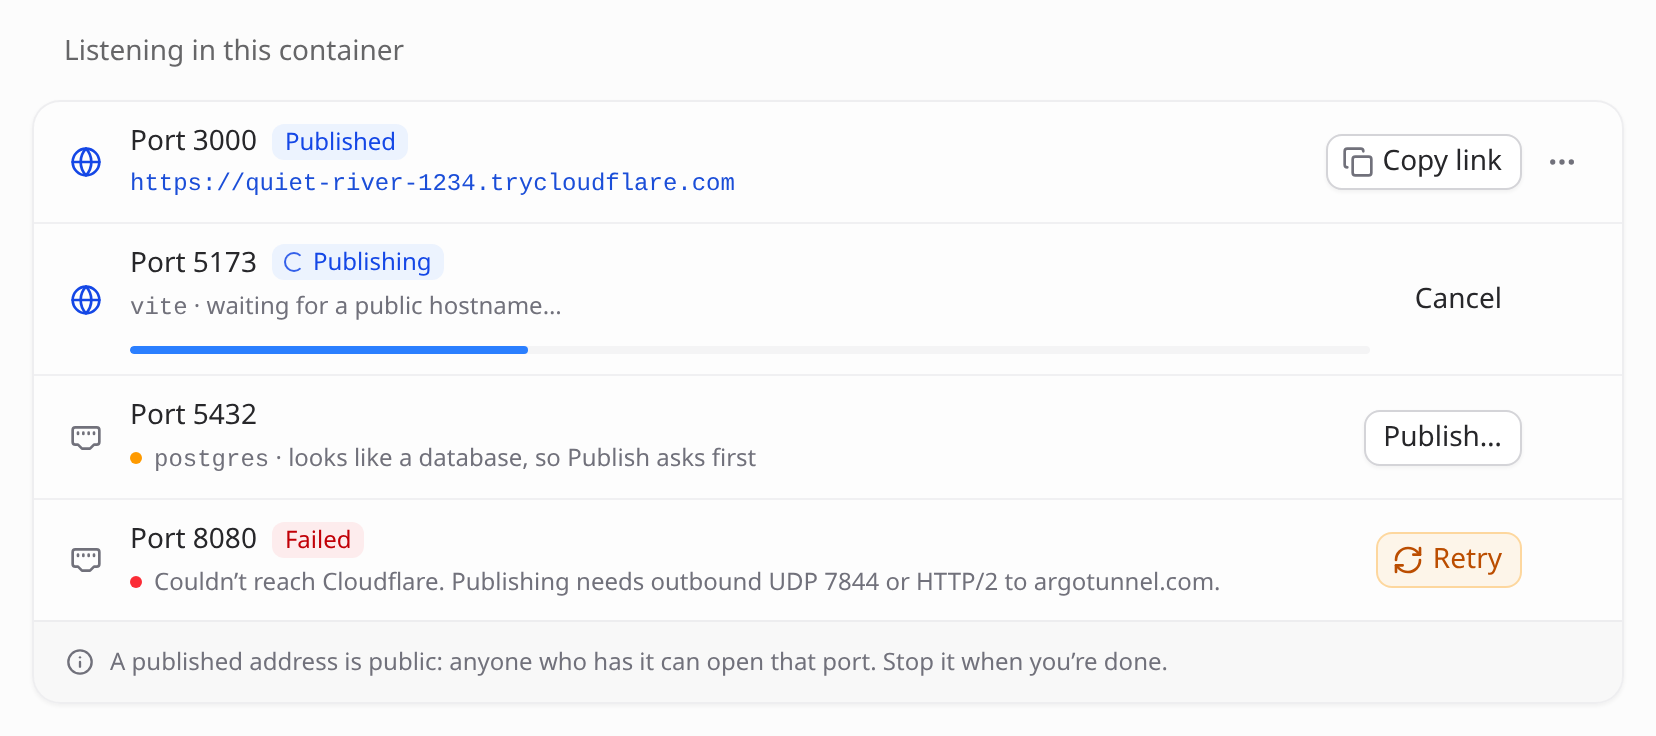
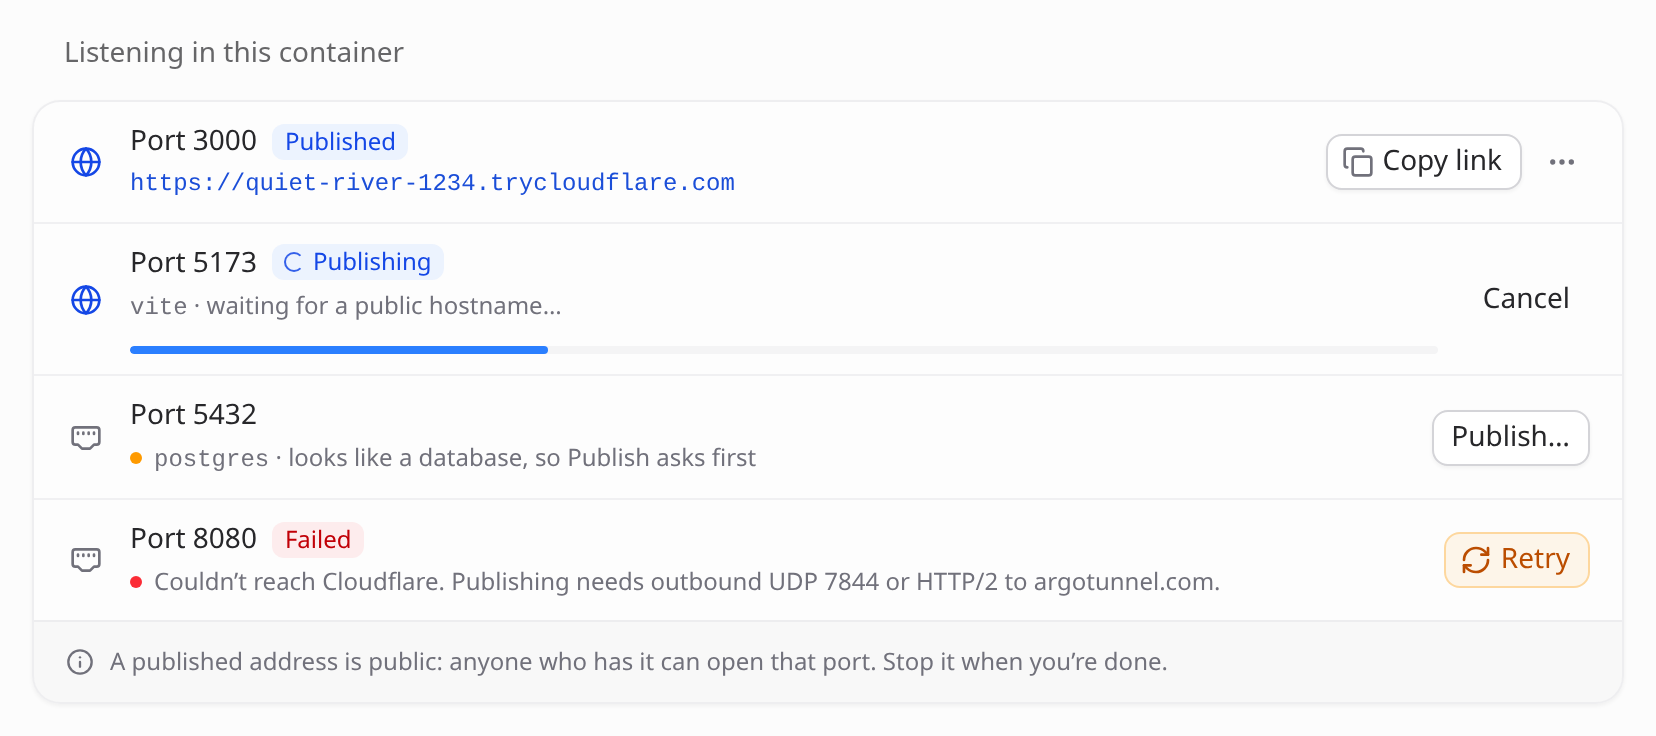
fix(setup): remove empty menu space from row actions

diff --git a/docker/setup/app.js b/docker/setup/app.js
@@ -564,11 +564,10 @@
     const variant = opts.plain ? null : a.variant === 'primary' && opts.primary === false ? null : a.variant;
     return html`<button class="${btnClass(variant)}" type="button" data-cmd="${a.cmd}" data-target="${row.target}" data-id="${row.id}" data-key="act-${row.key}">${a.icon ? icon(a.icon) : ''}${a.label}</button>`;
   };
-  // A row without a menu keeps its place, so every row's one action lines up.
-  const menuSlot = () => html`<span class="tc-row-menu-slot" aria-hidden="true"></span>`;
+  // Only real controls occupy the action group; its last control uses the row inset.
   const menuButton = (row) => row.menu.length
     ? html`<button class="tc-btn tc-btn--ghost tc-btn--icon tc-btn--sm" type="button" aria-label="More for ${row.name}" aria-haspopup="menu" aria-expanded="${String(Kit.menuOpenFor('menu-' + row.key))}" data-cmd="row.menu" data-target="${row.target}" data-id="${row.id}" data-key="menu-${row.key}">${icon('ellipsis')}</button>`
-    : menuSlot();
+    : '';
 
   /** An agent or toolchain row: tile, name and version, one status line, one verb, a menu. */
   const resourceRow = (row, opts = {}) => {
@@ -584,7 +583,7 @@
         ${noticeError ? html`<span class="tc-status" role="alert">${dot('danger')}<span class="tc-status-text">${noticeError.text}${detail('notice')}</span></span>` : noticeLine(row.notice)}
         ${row.state === 'running' ? opLine(row) : ''}
       </div>
-      <div class="${cx('tc-row-actions', opts.wrap && 'tc-row-actions--wrap')}">${actionButton(row, opts)}${opts.menu === false ? menuSlot() : menuButton(row)}</div>
+      <div class="${cx('tc-row-actions', opts.wrap && 'tc-row-actions--wrap')}">${actionButton(row, opts)}${opts.menu === false ? '' : menuButton(row)}</div>
     </div>`;
   };
 
@@ -744,7 +743,7 @@
     <div class="tc-row tc-row--compact" data-key="needs-${item.key}">
       <span class="tc-tile tc-tile--icon" data-tone="${item.tone}" aria-hidden="true">${icon(item.icon)}</span>
       <div class="tc-row-main"><span class="tc-row-name">${item.name}</span><span class="tc-status"><span class="tc-status-text">${item.text}</span></span></div>
-      <div class="tc-row-actions tc-row-actions--wrap">${itemAction(item.action)}${menuSlot()}</div>
+      <div class="tc-row-actions tc-row-actions--wrap">${itemAction(item.action)}</div>
     </div>`;
   // On a phone each item's one action goes under its words, so they read whole.
   const attentionRow = (item) => (item.icon ? itemRow(item) : resourceRow(item, { plain: true, menu: false, wrap: true }));
@@ -1020,7 +1019,7 @@
           ${url ? html`<span class="tc-status tc-url-line"><span class="tc-mono tc-truncate">${url}</span>${copyButton(url, 'Copy public URL', { iconOnly: true })}${source && source !== 'set here' ? html`<span class="tc-url-source">${source === 'T3_PUBLIC_URL' ? 'from T3_PUBLIC_URL' : source}</span>` : ''}</span>`
             : html`<span class="tc-status">${dot('warn')}<span class="tc-status-text">Not set. Pairing links point at it, so they need one${here && !here.local ? html`: this page is open at ${M.hostOf(here.url)}, and T3 Code answers there too` : ''}.</span></span>`}
         </div>
-        <div class="tc-row-actions tc-row-actions--wrap">${action}${!url && here && !here.local ? html`<button class="tc-btn tc-btn--ghost tc-btn--icon tc-btn--sm" type="button" aria-label="More for the public URL" aria-haspopup="menu" aria-expanded="${String(Kit.menuOpenFor('menu-url'))}" data-cmd="url.menu" data-key="menu-url">${icon('ellipsis')}</button>` : menuSlot()}</div>
+        <div class="tc-row-actions tc-row-actions--wrap">${action}${!url && here && !here.local ? html`<button class="tc-btn tc-btn--ghost tc-btn--icon tc-btn--sm" type="button" aria-label="More for the public URL" aria-haspopup="menu" aria-expanded="${String(Kit.menuOpenFor('menu-url'))}" data-cmd="url.menu" data-key="menu-url">${icon('ellipsis')}</button>` : ''}</div>
       </div>
       ${connectRow(s)}
     </div></div>`;
@@ -1069,7 +1068,7 @@
     return html`<div class="tc-row tc-row--compact" data-key="connect">
       <span class="tc-tile tc-tile--icon" aria-hidden="true">${icon('globe')}</span>
       <div class="tc-row-main"><div class="tc-row-title"><span class="tc-row-name">T3 Connect</span>${badge(view.badge)}</div><span class="tc-status tc-status--prose">${view.text}</span></div>
-      <div class="tc-row-actions tc-row-actions--wrap">${view.action ? html`<button class="tc-btn tc-btn--sm" type="button" data-cmd="${view.action.cmd}">${view.action.icon ? icon(view.action.icon) : ''}${view.action.label}</button>` : ''}${menu.length ? html`<button class="tc-btn tc-btn--ghost tc-btn--icon tc-btn--sm" type="button" aria-label="More for T3 Connect" aria-haspopup="menu" aria-expanded="${String(Kit.menuOpenFor('menu-connect'))}" data-cmd="connect.menu" data-key="menu-connect">${icon('ellipsis')}</button>` : menuSlot()}</div>
+      <div class="tc-row-actions tc-row-actions--wrap">${view.action ? html`<button class="tc-btn tc-btn--sm" type="button" data-cmd="${view.action.cmd}">${view.action.icon ? icon(view.action.icon) : ''}${view.action.label}</button>` : ''}${menu.length ? html`<button class="tc-btn tc-btn--ghost tc-btn--icon tc-btn--sm" type="button" aria-label="More for T3 Connect" aria-haspopup="menu" aria-expanded="${String(Kit.menuOpenFor('menu-connect'))}" data-cmd="connect.menu" data-key="menu-connect">${icon('ellipsis')}</button>` : ''}</div>
     </div>`;
   };
 
@@ -1243,16 +1242,16 @@
     } else if (p.state === 'starting') {
       title = html`${title}<span class="tc-badge tc-badge--info"><span class="tc-spinner" aria-hidden="true"></span>Publishing</span>`;
       status = html`<span class="tc-status"><span class="tc-status-text">${joinParts([proc, 'waiting for a public hostname…'])}</span></span>${progressBar(null)}`;
-      actions = html`<button class="tc-btn tc-btn--ghost tc-btn--sm" type="button" data-cmd="port.stop" data-id="${p.port}" data-key="stop-${p.port}">Cancel</button>${menuSlot()}`;
+      actions = html`<button class="tc-btn tc-btn--ghost tc-btn--sm" type="button" data-cmd="port.stop" data-id="${p.port}" data-key="stop-${p.port}">Cancel</button>`;
     } else if (p.state === 'failed') {
       title = html`${title}<span class="tc-badge tc-badge--danger">Failed</span>`;
       status = statusLine({ dot: 'danger', text: p.error || 'The tunnel failed' });
-      actions = html`<button class="tc-btn tc-btn--warning tc-btn--sm" type="button" data-cmd="port.publish" data-id="${p.port}" data-key="pub-${p.port}">${icon('refresh-cw')}Retry</button>${menuSlot()}`;
+      actions = html`<button class="tc-btn tc-btn--warning tc-btn--sm" type="button" data-cmd="port.publish" data-id="${p.port}" data-key="pub-${p.port}">${icon('refresh-cw')}Retry</button>`;
     } else {
       status = p.db
         ? html`<span class="tc-status">${dot('warn')}<span class="tc-status-text">${joinParts([proc, 'looks like a database, so Publish asks first'])}</span></span>`
         : html`<span class="tc-status"><span class="tc-status-text">${proc || where ? joinParts([proc, where]) : p.listening ? 'Listening in the container' : 'Not listening right now'}</span></span>`;
-      actions = html`<button class="tc-btn tc-btn--sm" type="button" data-cmd="port.publish" data-id="${p.port}" data-key="pub-${p.port}">${p.db ? 'Publish…' : 'Publish'}</button>${menuSlot()}`;
+      actions = html`<button class="tc-btn tc-btn--sm" type="button" data-cmd="port.publish" data-id="${p.port}" data-key="pub-${p.port}">${p.db ? 'Publish…' : 'Publish'}</button>`;
     }
     return html`
       <div class="${cx('tc-row tc-row--compact', p.expanded && 'tc-row--expanded')}" data-key="port-${p.port}">
@@ -1341,7 +1340,7 @@
         ${keyView.value
           ? html`<button class="tc-btn tc-btn--sm" type="button" data-cmd="key.hide" data-key="key-toggle">${icon('eye-off')}Hide</button>`
           : html`<button class="tc-btn tc-btn--sm" type="button" data-cmd="key.show" data-key="key-toggle">${icon('eye')}Show</button>`}
-        ${source === 'env' ? menuSlot() : html`<button class="tc-btn tc-btn--ghost tc-btn--icon tc-btn--sm" type="button" aria-label="More for the setup key" aria-haspopup="menu" aria-expanded="${String(Kit.menuOpenFor('menu-key'))}" data-cmd="key.menu" data-key="menu-key">${icon('ellipsis')}</button>`}
+        ${source === 'env' ? '' : html`<button class="tc-btn tc-btn--ghost tc-btn--icon tc-btn--sm" type="button" aria-label="More for the setup key" aria-haspopup="menu" aria-expanded="${String(Kit.menuOpenFor('menu-key'))}" data-cmd="key.menu" data-key="menu-key">${icon('ellipsis')}</button>`}
       </div>
     </div>`;
   };
@@ -1437,8 +1436,8 @@
         ${s.setupKeySource ? keyRow(s.setupKeySource) : ''}
         ${viaT3(s)
           ? html`<div class="tc-row tc-row--compact"><span class="tc-tile tc-tile--icon" aria-hidden="true">${icon('shield-check')}</span><div class="tc-row-main"><span class="tc-row-name">Signed in through T3 Code</span><span class="tc-status tc-status--prose">This browser is paired with T3 Code, which already gives it a terminal here, so the console didn’t ask for the key. Revoking it under Access ends both.</span></div></div>`
-          : html`<div class="tc-row tc-row--compact"><span class="tc-tile tc-tile--icon" aria-hidden="true">${icon('lock')}</span><div class="tc-row-main"><span class="tc-row-name">Lock this browser</span><span class="tc-status">Ends this browser’s session here. Coming back takes the setup key.</span></div><div class="tc-row-actions tc-row-actions--wrap"><button class="tc-btn tc-btn--sm" type="button" data-cmd="lock">Lock</button>${menuSlot()}</div></div>`}
-        <div class="tc-row tc-row--compact"><span class="tc-tile tc-tile--icon" aria-hidden="true">${icon('circle-stop')}</span><div class="tc-row-main"><span class="tc-row-name">Turn the console off</span><span class="tc-status tc-status--prose">Set <code>T3_SETUP_ENABLED=0</code> once you’re set up. Pairing then takes <code class="tc-nowrap">t3-pair</code> in a shell.</span></div><div class="tc-row-actions tc-row-actions--wrap">${copyButton('T3_SETUP_ENABLED=0', 'Copy setting', { ghost: false, size: 'tc-btn--sm' })}${menuSlot()}</div></div>
+          : html`<div class="tc-row tc-row--compact"><span class="tc-tile tc-tile--icon" aria-hidden="true">${icon('lock')}</span><div class="tc-row-main"><span class="tc-row-name">Lock this browser</span><span class="tc-status">Ends this browser’s session here. Coming back takes the setup key.</span></div><div class="tc-row-actions tc-row-actions--wrap"><button class="tc-btn tc-btn--sm" type="button" data-cmd="lock">Lock</button></div></div>`}
+        <div class="tc-row tc-row--compact"><span class="tc-tile tc-tile--icon" aria-hidden="true">${icon('circle-stop')}</span><div class="tc-row-main"><span class="tc-row-name">Turn the console off</span><span class="tc-status tc-status--prose">Set <code>T3_SETUP_ENABLED=0</code> once you’re set up. Pairing then takes <code class="tc-nowrap">t3-pair</code> in a shell.</span></div><div class="tc-row-actions tc-row-actions--wrap">${copyButton('T3_SETUP_ENABLED=0', 'Copy setting', { ghost: false, size: 'tc-btn--sm' })}</div></div>
       </div></div>`)}`;
   };
 
@@ -1466,11 +1465,11 @@
           <div class="tc-row-title"><span class="tc-row-name">T3 Code</span><span class="tc-version">${view.version || 'unknown version'}${targetVersion ? html` <span class="tc-version-arrow" aria-label="to">→</span> ${targetVersion}` : ''}</span>${busy ? html`<span class="tc-badge tc-badge--info"><span class="tc-spinner" aria-hidden="true"></span>${view.busy ? 'Updating' : 'Checking'}</span>` : ''}</div>
           <span class="tc-status">${view.available || view.busy ? '' : view.checkError ? dot('warn') : ''}<span class="tc-status-text"><span>${state}</span>${view.checkedAt && !busy ? ' · checked ' + M.relTime(view.checkedAt, now()) : ''}</span></span>
         </div>
-        <div class="tc-row-actions">${view.available || view.error ? html`<button class="tc-btn tc-btn--primary tc-btn--sm" type="button" data-cmd="t3.update" data-channel="${view.error ? view.operation.channel : view.channel}"${busy || !view.supported || !view.latest ? raw(' disabled') : ''}>${view.error ? 'Retry update' : 'Update and restart'}</button>` : ''}${menuSlot()}</div>
+        <div class="tc-row-actions">${view.available || view.error ? html`<button class="tc-btn tc-btn--primary tc-btn--sm" type="button" data-cmd="t3.update" data-channel="${view.error ? view.operation.channel : view.channel}"${busy || !view.supported || !view.latest ? raw(' disabled') : ''}>${view.error ? 'Retry update' : 'Update and restart'}</button>` : ''}</div>
       </div>
       <div class="tc-row tc-row--compact tc-runtime-channel">
         <div class="tc-row-main"><span class="tc-row-name">Release channel</span><span class="tc-status">${view.channel === 'nightly' ? 'New features first. Nightly builds can be less reliable.' : 'Published releases, for everyday work.'}</span></div>
-        <div class="tc-row-actions tc-runtime-channel-actions"><div class="tc-seg" role="group" aria-label="T3 Code release channel">${['stable', 'nightly'].map((channel) => html`<button type="button" data-cmd="t3.channel" data-channel="${channel}" aria-pressed="${view.channel === channel}" ${busy || !view.supported ? 'disabled' : ''}>${channel === 'stable' ? icon('shield-check') : icon('moon')}${channel === 'stable' ? 'Stable' : 'Nightly'}</button>`)}</div>${menuSlot()}</div>
+        <div class="tc-row-actions tc-runtime-channel-actions"><div class="tc-seg" role="group" aria-label="T3 Code release channel">${['stable', 'nightly'].map((channel) => html`<button type="button" data-cmd="t3.channel" data-channel="${channel}" aria-pressed="${view.channel === channel}" ${busy || !view.supported ? 'disabled' : ''}>${channel === 'stable' ? icon('shield-check') : icon('moon')}${channel === 'stable' ? 'Stable' : 'Nightly'}</button>`)}</div></div>
       </div>
       ${view.error || view.checkError ? html`<div class="tc-runtime-notes">
         ${view.error ? notice('danger', 'circle-alert', 'The last T3 Code update didn’t finish', view.error) : ''}
@@ -1499,7 +1498,7 @@
       <div class="tc-row-main"><span class="tc-row-name" id="auto-${kind}-name">${label}</span><span class="tc-status" id="auto-${kind}-desc">${auto.schedule[kind]}${on && auto.lastChecked[kind] ? ' ' + auto.lastChecked[kind] : ''}</span></div>
       <div class="tc-row-actions">
         ${on ? html`<button class="tc-btn tc-btn--ghost tc-btn--sm" type="button" data-cmd="auto.schedule" data-id="${kind}" data-key="auto-schedule-${kind}" aria-label="Change the ${label} schedule">Schedule</button>` : ''}
-        <label class="tc-switch-hit" for="auto-toggle-${kind}"><button class="tc-switch" id="auto-toggle-${kind}" type="button" role="switch" aria-checked="${String(on)}" aria-labelledby="auto-${kind}-name" aria-describedby="auto-${kind}-desc" data-cmd="auto.toggle" data-id="${kind}" data-key="auto-toggle-${kind}"${busy ? raw(' disabled aria-busy="true"') : ''}></button></label>${menuSlot()}
+        <label class="tc-switch-hit" for="auto-toggle-${kind}"><button class="tc-switch" id="auto-toggle-${kind}" type="button" role="switch" aria-checked="${String(on)}" aria-labelledby="auto-${kind}-name" aria-describedby="auto-${kind}-desc" data-cmd="auto.toggle" data-id="${kind}" data-key="auto-toggle-${kind}"${busy ? raw(' disabled aria-busy="true"') : ''}></button></label>
       </div>
     </div>`;
   };
@@ -1584,7 +1583,7 @@
       </div>
       <div class="tc-row-actions tc-row-actions--wrap">
         ${row.mode && !row.error ? html`<button class="tc-btn tc-btn--sm" type="button" data-cmd="context.provider.edit" data-id="${row.id}" aria-label="Edit what ${row.name} reads"${busy ? raw(' disabled') : ''}>${icon('pencil')}Edit</button>` : ''}
-        <select class="tc-select tc-select--sm tc-context-mode" data-context-mode="${row.id}" aria-label="What ${row.name} reads"${busy || row.error ? raw(' disabled') : ''}>${options.map(([mode, label, off]) => html`<option value="${mode}"${(row.mode || 'none') === mode ? raw(' selected') : ''}${off ? raw(' disabled') : ''}>${label}${off ? ' (write it first)' : ''}</option>`)}</select>${menuSlot()}
+        <select class="tc-select tc-select--sm tc-context-mode" data-context-mode="${row.id}" aria-label="What ${row.name} reads"${busy || row.error ? raw(' disabled') : ''}>${options.map(([mode, label, off]) => html`<option value="${mode}"${(row.mode || 'none') === mode ? raw(' selected') : ''}${off ? raw(' disabled') : ''}>${label}${off ? ' (write it first)' : ''}</option>`)}</select>
       </div>
     </div>`;
   };

diff --git a/docker/setup/console.css b/docker/setup/console.css
@@ -121,9 +121,6 @@ html.tc-locked { overflow: hidden; }
 /* Names and values that must not part at a hyphen. */
 .tc-nowrap { white-space: nowrap; }
 
-/* A row without a menu keeps the menu's place, so actions line up down a list. */
-.tc-row-menu-slot { display: block; width: var(--control-sm); height: 1px; flex: none; }
-.tc-root[data-density="touch"] .tc-row-menu-slot { width: 32px; }
 /* A port's tile says whether it is out on the internet. */
 .tc-tile--port-state[data-live] { color: var(--info-text); }
 
@@ -157,7 +154,6 @@ html.tc-locked { overflow: hidden; }
 @media (max-width: 639.98px) {
   .tc-row:has(> .tc-row-actions--wrap) { grid-template-columns: auto minmax(0, 1fr); }
   .tc-row > .tc-row-actions--wrap { grid-column: 2 / -1; justify-content: flex-start; }
-  .tc-row-actions--wrap > .tc-row-menu-slot { display: none; }
   /* Only rows without a leading tile put actions under the whole main block.
      A stale plain modifier must not move an icon row into a single column. */
   .tc-row--plain:not(:has(> .tc-tile, > .tc-row-lead)):has(> .tc-row-actions--wrap) { grid-template-columns: minmax(0, 1fr); }
@@ -590,7 +586,6 @@ html.tc-locked { overflow: hidden; }
 @media (max-width: 639.98px) {
   .tc-runtime-channel { grid-template-columns: minmax(0, 1fr); }
   .tc-runtime-channel-actions { width: 100%; }
-  .tc-runtime-channel-actions > .tc-row-menu-slot { display: none; }
   .tc-runtime-channel .tc-seg { display: flex; flex: 1 1 auto; }
   .tc-runtime-channel .tc-seg button { flex: 1; min-height: 32px; justify-content: center; }
 }

diff --git a/scripts/ui-audit.js b/scripts/ui-audit.js
@@ -286,6 +286,18 @@ const audit = () => {
     if (Math.abs(box(main).left - left) > 1) {
       add("detached-row-text", "text does not follow the leading icon or row padding", main);
     }
+    // The final control ends at the row's normal inset. Reserving a menu's
+    // width when there is no menu leaves an unexplained blank strip beside it.
+    // Phone rows that put actions below the text are intentionally left aligned.
+    const actions = row.querySelector(":scope > .tc-row-actions");
+    if (!actions || !visible(actions) || getComputedStyle(actions).justifyContent !== "flex-end") continue;
+    const controls = [...actions.children].filter((el) => visible(el) && el.matches("button, a, input, select, label, [role=group]"));
+    if (!controls.length) continue;
+    const right = Math.max(...controls.map((el) => box(el).right));
+    const inset = box(row).right - parseFloat(style.borderRightWidth) - parseFloat(style.paddingRight);
+    if (Math.abs(right - inset) > 1) {
+      add("trailing-row-space", `final control is ${(inset - right).toFixed(2)}px from the row's right inset`, actions);
+    }
   }
 
   return findings;
